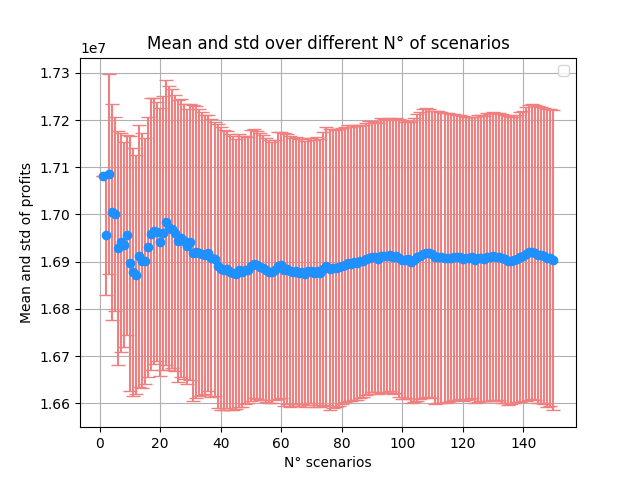
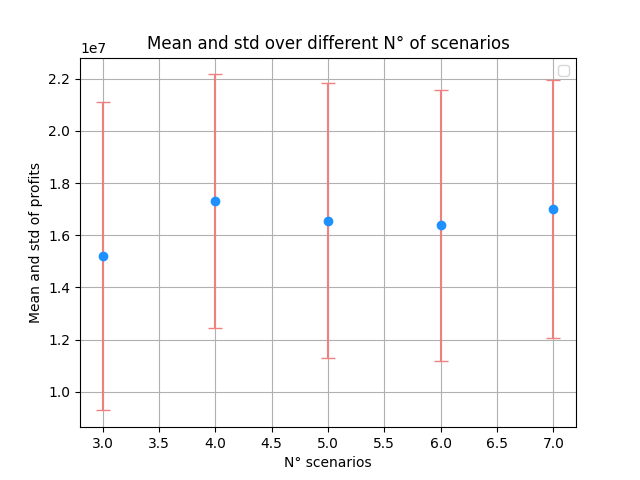
fix in sample stability

diff --git a/simulator/tester.py b/simulator/tester.py
@@ -86,71 +86,102 @@ class Tester():
     #         ans[i] = of
     #     return ans
     
-    def in_sample_stability(self, sim_setting, problem, sampler, instance, dict_data, n_repertions, n_scenarios_sol):
-        ans = [0] * n_repertions
+    # def in_sample_stability(self, sim_setting, problem, sampler, instance, dict_data, n_repertions, n_scenarios_sol):
+    #     ans = [0] * n_repertions
         
-        for i in range(n_repertions):
+    #     for i in range(n_repertions):
             
-            sim_setting["n_scenarios"] = n_scenarios_sol
-            inst = Instance(sim_setting)
-            dict_data = inst.get_data()
+    #         sim_setting["n_scenarios"] = n_scenarios_sol
+    #         inst = Instance(sim_setting)
+    #         dict_data = inst.get_data()
             
-            prob_s = sampler.sample_stoch(inst)
+    #         prob_s = sampler.sample_stoch(inst)
             
-            of, _, _, _ = problem.solve(
-                dict_data,
-                prob_s
-            )
+    #         of, _, _, _ = problem.solve(
+    #             dict_data,
+    #             prob_s
+    #         )
             
-            ans[i] = of
-        return np.mean(ans), np.std(ans)
+    #         ans[i] = of
+    #     return np.mean(ans), np.std(ans)
 
-    def in_sample_stability_new(self, N_scen_tot, sam, problem):
+    # def in_sample_stability_new(self, N_scen_tot, sam, problem):
+    #     x_mean=[]
+    #     x_std=[]
+
+    #     dictionary={"n_diseases": 3,"n_varieties": 8,"n_spacings" : 4,"n_size_bands": 5,"n_customers": 10,"n_scenarios": N_scen_tot,"n_sowing_dates": 4,"n_harvesting_dates": 4,"w": 0.5}
+    
+    #     inst = Instance(dictionary)
+    #     dict_data = inst.get_data()
+    #     prob_s = sam.sample_stoch(inst)
+    #     inst.prob_s = prob_s
+
+    #     print(">>>>>>>>>>> TEST start <<<<<<<<<<<<<<<<<<<<<<")
+    #     _, sol, _, model = problem.solve(
+    #             dict_data,
+    #             prob_s
+    #         )
+        
+    #     grb_var = model.getVarByName("Lminus[0]") 
+    #     L_minus = grb_var.X
+    #     grb_var = model.getVarByName("Lplus[0]") 
+    #     L_plus = grb_var.X
+
+    #     x = range(1,N_scen_tot)
+    #     heu1 = heu.SecondStageSolver()
+    #     of_results=[]
+
+    #     print(">>>>>>>>>>> TEST stop <<<<<<<<<<<<<<<<<<<<<<")
+
+    #     for i in x:
+    #         print(">>>>>>>> Heu iteration N° ", i)
+    #         of_heu, _, _ = heu1.solve(dict_data, i, sol, L_plus, L_minus)
+    #         of_results.append(of_heu)
+
+    #     for i in x:
+    #         print(">>>>>>>> Mean and std iteration N° ", i)
+    #         aux=of_results[0:i]
+    #         print(aux)
+    #         if(i==1):
+    #             for elem in aux:
+    #                 x_mean.append(elem)
+    #                 x_std.append(0)
+    #         else:
+    #             x_mean.append(np.mean(aux))
+    #             x_std.append(np.std(aux))
+            
+    #     return x_mean, x_std
+
+
+    def in_sample_stability(self, N_scen_tot, sam, problem,sim_setting, n_repetitions):
+        sim_setting["n_scenarios"] = N_scen_tot
         x_mean=[]
         x_std=[]
 
-        dictionary={"n_diseases": 3,"n_varieties": 8,"n_spacings" : 4,"n_size_bands": 5,"n_customers": 10,"n_scenarios": N_scen_tot,"n_sowing_dates": 4,"n_harvesting_dates": 4,"w": 0.5}
-    
-        inst = Instance(dictionary)
-        dict_data = inst.get_data()
-        prob_s = sam.sample_stoch(inst)
-        inst.prob_s = prob_s
+        for s in range(3,N_scen_tot+3):
+            aux=[]
+            
+            for i in range(n_repetitions):
 
-        print(">>>>>>>>>>> TEST start <<<<<<<<<<<<<<<<<<<<<<")
-        _, sol, _, model = problem.solve(
+                sim_setting["n_scenarios"] = s
+                inst = Instance(sim_setting)
+                dict_data = inst.get_data()
+                prob_s = sam.sample_stoch(inst)
+                inst.prob_s = prob_s
+
+                print(">>>>> scenario N° ", s, " it. N° ", i)
+
+                of, _, _, _ = problem.solve(
                 dict_data,
-                prob_s
-            )
-        
-        grb_var = model.getVarByName("Lminus[0]") 
-        L_minus = grb_var.X
-        grb_var = model.getVarByName("Lplus[0]") 
-        L_plus = grb_var.X
+                prob_s)
+                aux.append(of)
 
-        x = range(1,N_scen_tot)
-        heu1 = heu.SecondStageSolver()
-        of_results=[]
-
-        print(">>>>>>>>>>> TEST stop <<<<<<<<<<<<<<<<<<<<<<")
-
-        for i in x:
-            print(">>>>>>>> Heu iteration N° ", i)
-            of_heu, _, _ = heu1.solve(dict_data, i, sol, L_plus, L_minus)
-            of_results.append(of_heu)
-
-        for i in x:
-            print(">>>>>>>> Mean and std iteration N° ", i)
-            aux=of_results[0:i]
-            print(aux)
-            if(i==1):
-                for elem in aux:
-                    x_mean.append(elem)
-                    x_std.append(0)
-            else:
-                x_mean.append(np.mean(aux))
-                x_std.append(np.std(aux))
+            x_mean.append(np.mean(aux))
+            x_std.append(np.std(aux))
             
         return x_mean, x_std
+
+        
 
     def out_of_sample_stability_new(self, N_scen_tot, sam, problem):
         x_mean=[]

diff --git a/main.py b/main.py
@@ -134,7 +134,7 @@ def Mean_profit_from_gb(model, dict_data, prob_s):
 if __name__ == '__main__':
 
 
-    log_name = "C:\\Users\\Giulia\\Desktop\\PoliTO\\Operational research\\2021_ORTA_RobustPlantingPlans\\logs\\main.log"
+    log_name = "./logs/main.log"
     logging.basicConfig(
         filename=log_name,
         format='%(asctime)s %(levelname)s: %(message)s',
@@ -143,7 +143,7 @@ if __name__ == '__main__':
     )
 
 
-    fp = open("C:\\Users\\Giulia\\Desktop\\PoliTO\\Operational research\\2021_ORTA_RobustPlantingPlans\\etc\\sim_setting.json", 'r')
+    fp = open("./etc/sim_setting.json", 'r')
     sim_setting = json.load(fp)
     fp.close()
 
@@ -189,15 +189,16 @@ if __name__ == '__main__':
 
     #%% STABILITY - new 
     test = Tester()
-    N_scen_tot=150
+    N_scen_tot=50
+    N_repetitions=25
 
     #IN SAMPLE STABILITY
-    x_mean, x_std = test.in_sample_stability_new(N_scen_tot, sam, prb)
-    pr.mean_std_plot(range(1,N_scen_tot), x_std, x_mean)
+    x_mean, x_std = test.in_sample_stability(N_scen_tot, sam, prb,sim_setting, N_repetitions)
+    pr.mean_std_plot(range(3,N_scen_tot+3), x_std, x_mean)
 
     #OUT OF SAMPLE STABILITY
-    x_mean_out, x_std_out, x = test.out_of_sample_stability_new(N_scen_tot, sam, prb)
-    pr.mean_std_plot_out(x, x_std_out, x_mean_out)
+    # x_mean_out, x_std_out, x = test.out_of_sample_stability_new(N_scen_tot, sam, prb)
+    # pr.mean_std_plot_out(x, x_std_out, x_mean_out)
 
     
     

diff --git a/simulator/instance.py b/simulator/instance.py
@@ -13,7 +13,7 @@ class Instance():
     #Constructor
     def __init__(self, sim_setting):
         
-        np.random.seed(0)
+        #np.random.seed(0)
         
         #Log
         logging.info("starting simulation...")
